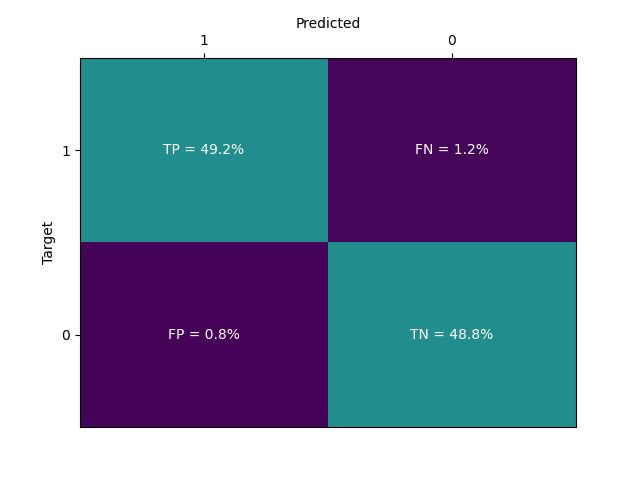
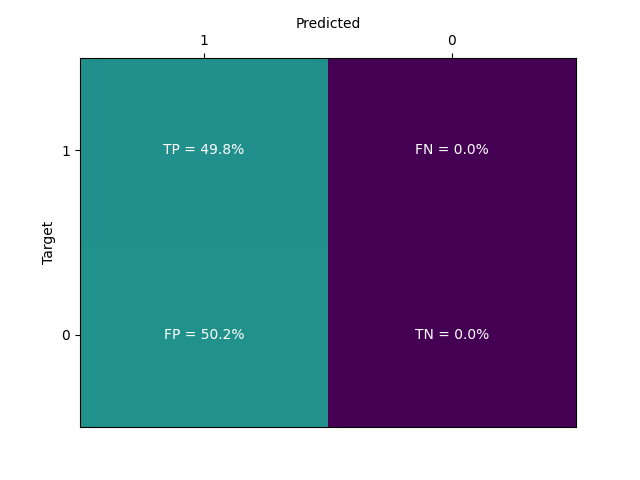
Added callback functionality

Changed region(s): [[0.125, 0.5, 0.9062, 0.9062], [0.7188, 0.2812, 0.75, 0.3438], [0.3438, 0.2812, 0.375, 0.3125]]

diff --git a/callbacks.py b/callbacks.py
@@ -1,0 +1,105 @@
+import matplotlib.pyplot as plt
+import numpy as np
+import os
+from pytorch_lightning.callbacks import Callback    
+import torch
+
+
+class ConfusionMatrix(Callback):
+    def __init__(self, threshold=0.5):
+        self.threshold = threshold
+
+    def on_test_end(self, trainer, module):
+        x = module.test_samples
+        y = module.test_labels
+        y_pred = module.test_predictions
+        parameters = module.test_parameters
+
+        # Confusion matrix
+        mat = module.conf_mat(self.threshold)(y_pred, y)
+        mat = mat.cpu().numpy()
+        mat = mat / np.sum(mat)
+        label = np.array([["TN", "FP"], ["FN", "TP"]])
+        fig, ax = plt.subplots()
+        ax.pcolormesh(mat, vmin=0, vmax=1)
+        for i in range(mat.shape[0]):
+            for j in range(mat.shape[1]):
+                ax.text(j+0.5, i+0.5, f"{label[i,j]} = {100*mat[i,j]:.1f}%", 
+                        color="white", ha="center", va="center")
+        ax.set_xticks([0.5, 1.5], [0, 1])
+        ax.set_yticks([0.5, 1.5], [0, 1])
+        ax.set_xlabel("Predicted")
+        ax.xaxis.set_label_position("top") 
+        ax.set_ylabel("Target")
+        ax.xaxis.set_inverted(True)
+        ax.tick_params(top=True, labeltop=True, bottom=False, 
+                       labelbottom=False)
+
+        fig_path = os.path.join(trainer.log_dir, "conf_mat.png")
+        fig.savefig(fig_path)
+
+
+class ROC(Callback):
+    def __init__(self, threshold=0.5, n=1000):
+        self.threshold = threshold
+        self.n = n
+
+    def on_test_end(self, trainer, module):
+        x = module.test_samples
+        y = module.test_labels
+        y_pred = module.test_predictions
+        parameters = module.test_parameters
+
+        tpr, fpr = np.empty(self.n), np.empty(self.n)
+        for i, threshold in enumerate(np.linspace(0, 1, self.n)):
+            mat = module.conf_mat(self.threshold)(y_pred, y)
+            mat = mat.cpu().numpy()
+            mat = mat / np.sum(mat)
+            (tn, fp), (fn, tp) = mat
+            tpr[i] = tp / (tp + fn)
+            fpr[i] = fp / (fp + tn)
+        auc = np.trapz(tpr[::-1], x=fpr[::-1])
+        fig, ax = plt.subplots()
+        ax.plot(fpr, tpr)
+        ax.plot([0, 1], [0, 1], ls="--")
+        ax.text(0.75, 0.25, f"ROC AUC = {auc:.3f}", ha="center", va="center")
+        ax.set_xlabel("False positive rate")
+        ax.set_ylabel("True positive rate")
+
+        fig_path = os.path.join(trainer.log_dir, "roc.png")
+        fig.savefig(fig_path)
+
+
+class SNRAccuracy(Callback):
+    def __init__(self, snr_range=(5, 20), bins=10):
+        self.min_snr, self.max_snr = snr_range
+        self.bins = bins
+
+    def on_test_end(self, trainer, module):
+        x = module.test_samples
+        y = module.test_labels
+        y_pred = module.test_predictions
+        parameters = module.test_parameters
+
+        injection_snr = parameters["injection_snr"].cpu().numpy()
+        acc = np.empty(self.bins)
+        snr = np.linspace(self.min_snr, self.max_snr, self.bins, 
+                          endpoint=False)
+        delta_snr = (self.max_snr - self.min_snr) / self.bins
+
+        for i, r in enumerate(snr):
+            if i==0: mask = injection_snr < r+delta_snr
+            elif i==self.bins-1: mask = r <= injection_snr
+            else: mask = np.logical_and(r <= injection_snr,
+                                        injection_snr < r+delta_snr)
+            acc[i] = module.accuracy(y_pred[mask], y[mask]) \
+                     if np.sum(mask)>0 else np.nan
+
+        fig, ax = plt.subplots()
+        ax.bar(snr, acc, width=delta_snr, align="edge", edgecolor="k")
+        ax.set_xlim(self.min_snr, self.max_snr)
+        ax.set_xlabel("SNR")
+        ax.set_ylabel("Accuracy")
+
+        fig_path = os.path.join(trainer.log_dir, "snr_acc.png")
+        fig.savefig(fig_path)

diff --git a/data.py b/data.py
@@ -58,13 +58,11 @@ class GGWDTestDataset(GGWDDataset):
 class Data(LightningDataModule):
     def __init__(self, file_path, batch_size, num_workers):
         super().__init__()
-        self.generator = torch.Generator().manual_seed(42)
         dataset = GGWDDataset(file_path)
         self.train_dataset, self.val_dataset \
-        = random_split(dataset, (0.8, 0.2), generator=self.generator)
+        = random_split(dataset, (0.8, 0.2))
         test_dataset = GGWDTestDataset(file_path)
-        _, self.test_dataset \
-        = random_split(test_dataset, (0.8, 0.2), generator=self.generator) # I don't think this works
+        self.test_dataset = Subset(test_dataset, self.val_dataset.indices)
         self.sample_shape = dataset.sample_shape
         self.batch_size = batch_size
         self.num_workers = num_workers
@@ -73,7 +71,6 @@ class Data(LightningDataModule):
         return DataLoader(self.train_dataset, 
                           batch_size=self.batch_size, 
                           shuffle=True, 
-                          generator=self.generator,
                           num_workers=self.num_workers)
     
     def val_dataloader(self):
@@ -88,4 +85,6 @@ class Data(LightningDataModule):
                           shuffle=False, 
                           num_workers=self.num_workers)
 
-
+if __name__ == "__main__":
+    data = Data("/scratch/tmp/swein/ggwd/output/bbh.hdf", 64, 4)
+    print(len(data.train_dataloader()), len(data.val_dataloader()), len(data.test_dataloader()))

diff --git a/main.py b/main.py
@@ -1,20 +1,10 @@
+from callbacks import ConfusionMatrix, ROC, SNRAccuracy
 from data import Data
-import os
 from model import Conv1dModel
-import numpy as np
-from pytorch_lightning import Trainer
-from torchinfo import summary
-
+from pytorch_lightning.cli import LightningCLI
 
 def main():
-    batch_size = 64
-    data = Data("/scratch/tmp/swein/ggwd/output/bbh.hdf", batch_size=batch_size, num_workers=4)
-    input_size = np.prod(data.sample_shape)
-    model = Conv1dModel(learning_rate=0.0005)
-    summary(model, input_size=(batch_size, *data.sample_shape))
-    trainer = Trainer(max_epochs=20)
-    trainer.fit(model, data)
-
+    cli = LightningCLI(Conv1dModel, Data)
 
 if __name__ == "__main__":
     main()
